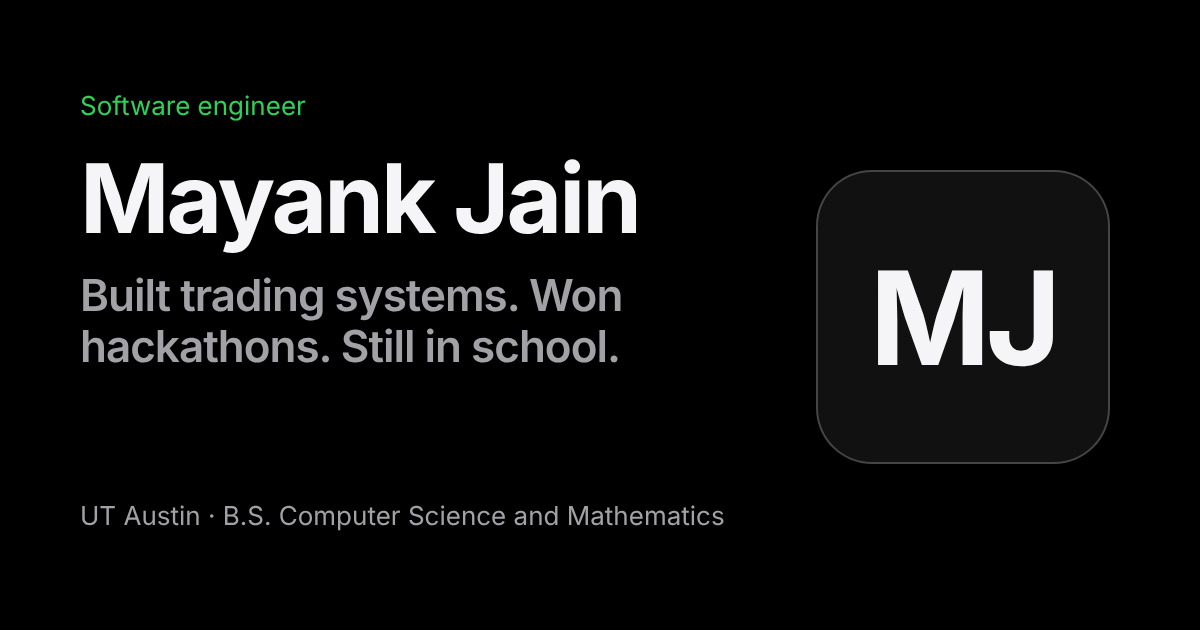
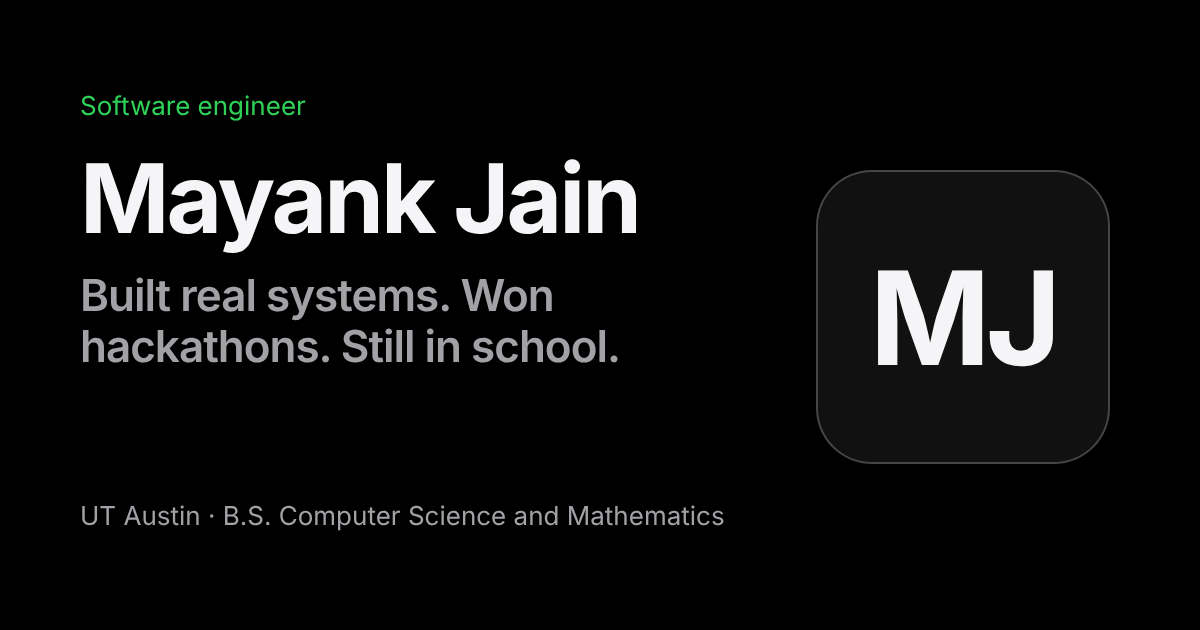
Generalize copy beyond trading: new tagline, broader subhead, reorder focus areas
Claude-Session: https://claude.ai/code/session_01V5rvMC15ZMeSGKKbSKaMBF

Changed region(s): [[0.1542, 0.4222, 0.5242, 0.5127]]

diff --git a/index.html b/index.html
@@ -4,31 +4,31 @@
     <meta charset="UTF-8" />
     <meta name="viewport" content="width=device-width, initial-scale=1.0" />
     <!-- Keep title, description, and canonical in sync with src/data/site.config.js -->
-    <title>Mayank Jain | Software engineer for trading automation and applied AI</title>
+    <title>Mayank Jain | Software engineer</title>
     <meta
       name="description"
-      content="Software engineer building trading infrastructure, applied AI, and full-stack products. Computer science and math at UT Austin."
+      content="Software engineer building applied AI, trading infrastructure, and full-stack products. Computer science and math at UT Austin."
     />
     <link rel="canonical" href="https://mayank-jain-portfolio.vercel.app/" />
     <meta name="theme-color" content="#000000" />
     <link rel="icon" type="image/svg+xml" href="/favicon.svg" />
     <meta property="og:type" content="website" />
-    <meta property="og:title" content="Mayank Jain | Software engineer for trading automation and applied AI" />
+    <meta property="og:title" content="Mayank Jain | Software engineer" />
     <meta
       property="og:description"
-      content="Software engineer building trading infrastructure, applied AI, and full-stack products. Computer science and math at UT Austin."
+      content="Software engineer building applied AI, trading infrastructure, and full-stack products. Computer science and math at UT Austin."
     />
     <meta property="og:url" content="https://mayank-jain-portfolio.vercel.app/" />
     <meta property="og:site_name" content="Mayank Jain" />
     <meta property="og:image" content="https://mayank-jain-portfolio.vercel.app/og.png" />
     <meta property="og:image:width" content="1200" />
     <meta property="og:image:height" content="630" />
-    <meta property="og:image:alt" content="Mayank Jain. Built trading systems. Won hackathons. Still in school." />
+    <meta property="og:image:alt" content="Mayank Jain. Built real systems. Won hackathons. Still in school." />
     <meta name="twitter:card" content="summary_large_image" />
-    <meta name="twitter:title" content="Mayank Jain | Software engineer for trading automation and applied AI" />
+    <meta name="twitter:title" content="Mayank Jain | Software engineer" />
     <meta
       name="twitter:description"
-      content="Software engineer building trading infrastructure, applied AI, and full-stack products. Computer science and math at UT Austin."
+      content="Software engineer building applied AI, trading infrastructure, and full-stack products. Computer science and math at UT Austin."
     />
     <meta name="twitter:image" content="https://mayank-jain-portfolio.vercel.app/og.png" />
     <script type="application/ld+json">
@@ -41,7 +41,7 @@
         "email": "mailto:07mayankjain@gmail.com",
         "address": { "@type": "PostalAddress", "addressLocality": "Austin", "addressRegion": "TX", "addressCountry": "US" },
         "alumniOf": { "@type": "CollegeOrUniversity", "name": "The University of Texas at Austin" },
-        "knowsAbout": ["Trading automation", "Applied AI", "Workflow automation", "Full-stack development"],
+        "knowsAbout": ["Applied AI", "Full-stack development", "Trading infrastructure", "Workflow automation"],
         "sameAs": ["https://github.com/mayank-jain632", "https://www.linkedin.com/in/mayank-jain-016066293/"]
       }
     </script>

diff --git a/src/data/services.js b/src/data/services.js
@@ -14,28 +14,6 @@
 /** @type {Service[]} */
 export const services = [
   {
-    id: "trading-automation",
-    name: "Trading and execution automation",
-    promise: "Webhook-to-broker pipelines with signal filtering, risk gating, and walk-forward backtesting.",
-    proof: [
-      "Cut signal execution from minutes to under 1 second, delivering to 50 clients across about 20 daily signals (Crescent).",
-      "Pre-execution infrastructure gating entries on volatility signals across 4 to 5 live strategies (trading desk).",
-      "Walk-forward backtesting layer gating every strategy on blind PASS/FAIL replays (AWS hackathon).",
-    ],
-    statIds: ["signal-latency", "signal-clients", "live-strategies"],
-    projectSlugs: ["crescent-signal-platform", "aws-agentic-ai"],
-  },
-  {
-    id: "workflow-automation",
-    name: "Business workflow automation",
-    promise: "Internal tools that replace expensive software or manual spreadsheets.",
-    proof: [
-      "Invoice turnaround cut to about 15 minutes per client, 100+ invoices a month, saving 20+ hours monthly (Crescent).",
-    ],
-    statIds: ["invoice-turnaround", "invoices-monthly", "hours-saved"],
-    projectSlugs: ["crescent-invoicing"],
-  },
-  {
     id: "applied-ai",
     name: "Applied AI and computer vision",
     promise: "Vision pipelines, multi-agent systems, and custom-trained models.",
@@ -58,5 +36,27 @@ export const services = [
     ],
     statIds: ["hackathon-podiums"],
     projectSlugs: ["relay", "blindspot", "myst"],
+  },
+  {
+    id: "trading-automation",
+    name: "Trading and execution automation",
+    promise: "Webhook-to-broker pipelines with signal filtering, risk gating, and walk-forward backtesting.",
+    proof: [
+      "Cut signal execution from minutes to under 1 second, delivering to 50 clients across about 20 daily signals (Crescent).",
+      "Pre-execution infrastructure gating entries on volatility signals across 4 to 5 live strategies (trading desk).",
+      "Walk-forward backtesting layer gating every strategy on blind PASS/FAIL replays (AWS hackathon).",
+    ],
+    statIds: ["signal-latency", "signal-clients", "live-strategies"],
+    projectSlugs: ["crescent-signal-platform", "aws-agentic-ai"],
+  },
+  {
+    id: "workflow-automation",
+    name: "Business workflow automation",
+    promise: "Internal tools that replace expensive software or manual spreadsheets.",
+    proof: [
+      "Invoice turnaround cut to about 15 minutes per client, 100+ invoices a month, saving 20+ hours monthly (Crescent).",
+    ],
+    statIds: ["invoice-turnaround", "invoices-monthly", "hours-saved"],
+    projectSlugs: ["crescent-invoicing"],
   },
 ];

diff --git a/src/data/site.config.js b/src/data/site.config.js
@@ -28,9 +28,9 @@ export const decisions = {
 export const site = {
   name: "Mayank Jain",
   // Keep title and description in sync with index.html.
-  title: "Mayank Jain | Software engineer for trading automation and applied AI",
+  title: "Mayank Jain | Software engineer",
   description:
-    "Software engineer building trading infrastructure, applied AI, and full-stack products. Computer science and math at UT Austin.",
+    "Software engineer building applied AI, trading infrastructure, and full-stack products. Computer science and math at UT Austin.",
   location: "Austin, TX",
   relocation: "Open to relocation",
   email: "07mayankjain@gmail.com",
@@ -65,8 +65,8 @@ export const hasResume = typeof __HAS_RESUME__ !== "undefined" && __HAS_RESUME__
 // Hero and about copy (context section 1). The first headline is the one shown.
 // ---------------------------------------------------------------------------
 export const headlines = [
-  "Built trading systems. Won hackathons. Still in school.",
-  "Trading infrastructure by day. Hackathon podiums by weekend.",
+  "Built real systems. Won hackathons. Still in school.",
+  "Backend systems by day. Hackathon podiums by weekend.",
   "Fast with Python, faster with a deadline.",
 ];
 
@@ -74,13 +74,13 @@ export const hero = {
   eyebrow: "Software engineer",
   headline: headlines[0],
   subhead:
-    "I build trading infrastructure, applied AI, and full-stack products. Computer science and math at UT Austin.",
+    "I build software across applied AI, trading infrastructure, and full-stack products. Computer science and math at UT Austin.",
   primaryCta: { label: "Email me", href: `mailto:${site.email}` },
   secondaryCta: { label: "Download resume", href: site.links.resume },
 };
 
 export const about = {
-  summary: "Software engineer first. Trading automation and applied AI are where I go deepest.",
+  summary: "Software engineer first. Applied AI, full-stack products, and trading infrastructure are where I go deepest.",
   details: [
     "Computer science and math at UT Austin, graduating May 2028.",
     "Independent engineering work through Crescent Dynamics LLC.",
